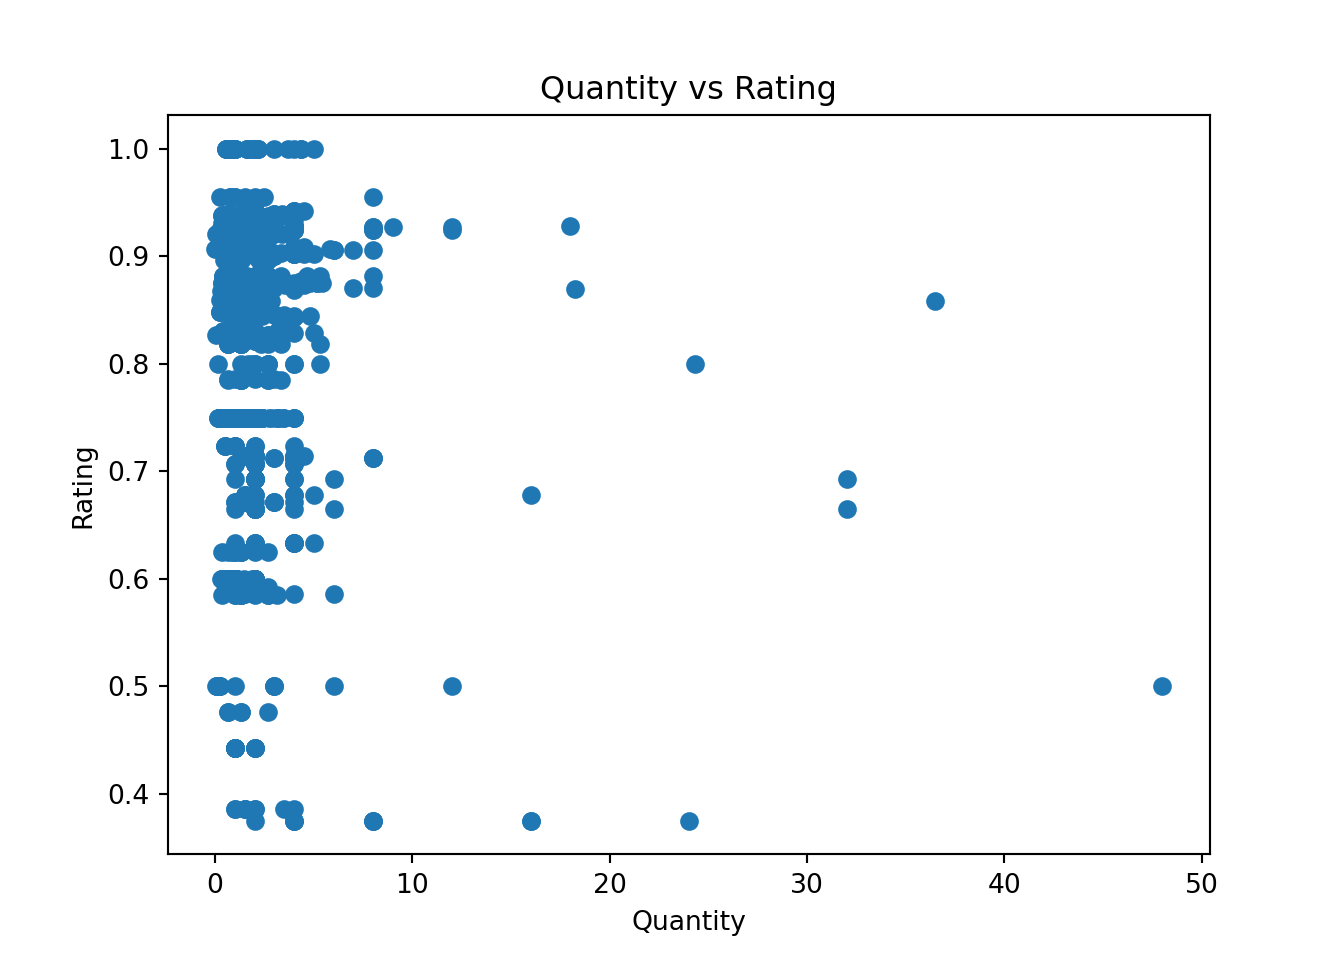
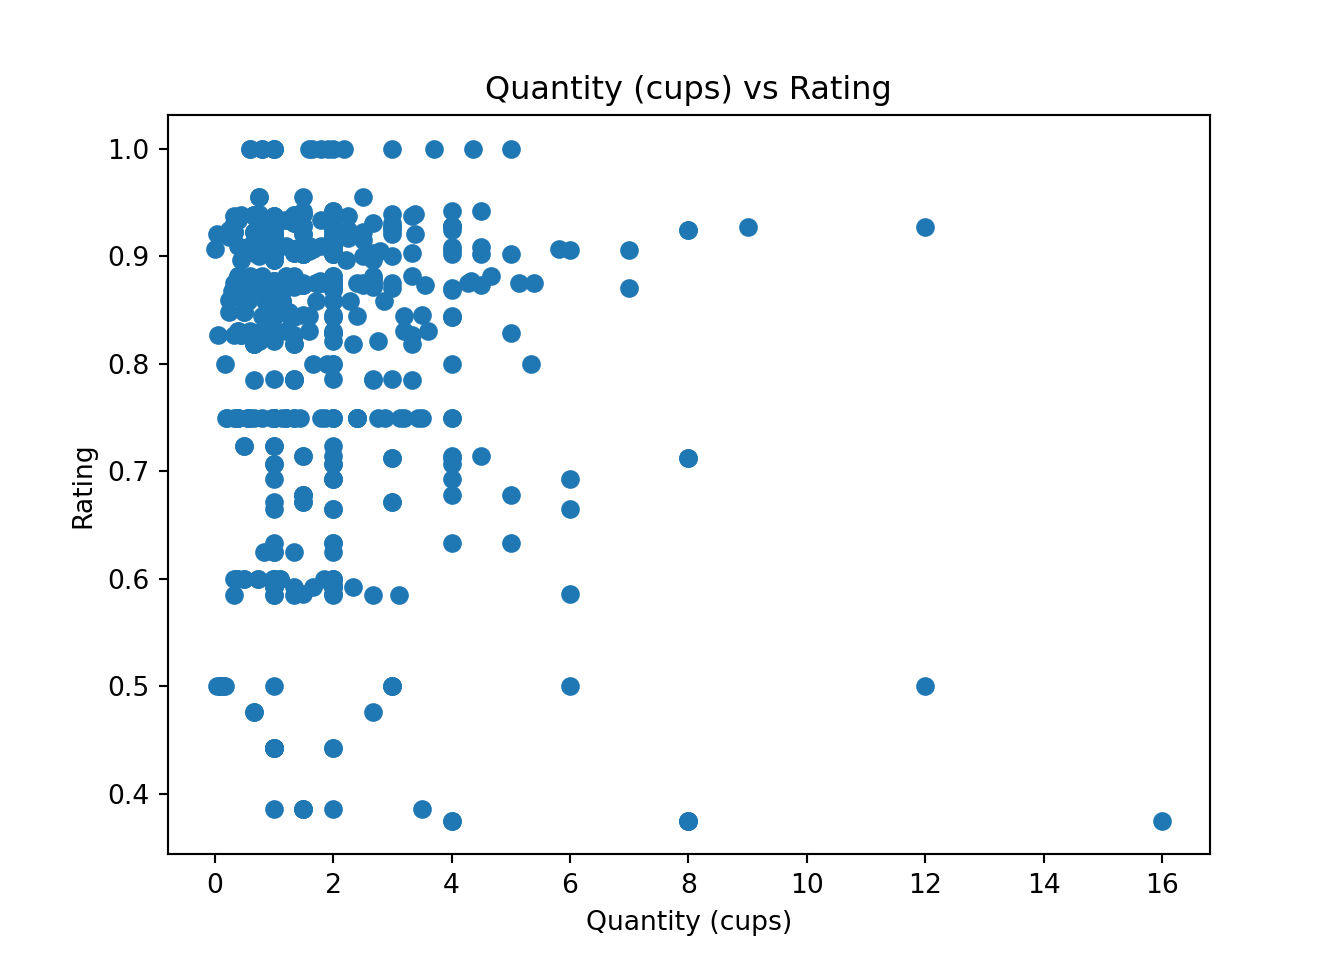
updating the missing ingredients and visualization

diff --git a/index.html b/index.html
@@ -381,10 +381,11 @@ pre > code.sourceCode > span > a:first-child::before { text-decoration: underlin
 <span id="cb10-6"><a href="#cb10-6" aria-hidden="true" tabindex="-1"></a>                                  <span class="at">proportion =</span> <span class="fu">n_distinct</span>(Recipe_Index)<span class="sc">/</span>total_recipes)</span>
 <span id="cb10-7"><a href="#cb10-7" aria-hidden="true" tabindex="-1"></a></span>
 <span id="cb10-8"><a href="#cb10-8" aria-hidden="true" tabindex="-1"></a>ingredients_counts <span class="ot">&lt;-</span> <span class="fu">arrange</span>(ingredients_counts, <span class="fu">desc</span>(proportion))</span>
-<span id="cb10-9"><a href="#cb10-9" aria-hidden="true" tabindex="-1"></a>common_20 <span class="ot">&lt;-</span> <span class="fu">head</span>(ingredients_counts, <span class="dv">20</span>)</span>
-<span id="cb10-10"><a href="#cb10-10" aria-hidden="true" tabindex="-1"></a><span class="fu">print</span>(common_20)</span></code></pre></div><button title="Copy to Clipboard" class="code-copy-button"><i class="bi"></i></button></div>
+<span id="cb10-9"><a href="#cb10-9" aria-hidden="true" tabindex="-1"></a>min_count <span class="ot">&lt;-</span> ingredients_counts<span class="sc">$</span>recipe_count[<span class="dv">20</span>]</span>
+<span id="cb10-10"><a href="#cb10-10" aria-hidden="true" tabindex="-1"></a>common_20 <span class="ot">&lt;-</span> <span class="fu">filter</span>(ingredients_counts, recipe_count <span class="sc">&gt;=</span> min_count)</span>
+<span id="cb10-11"><a href="#cb10-11" aria-hidden="true" tabindex="-1"></a><span class="fu">print</span>(common_20, <span class="at">n =</span> <span class="dv">22</span>)</span></code></pre></div><button title="Copy to Clipboard" class="code-copy-button"><i class="bi"></i></button></div>
 <div class="cell-output cell-output-stdout">
-<pre><code># A tibble: 20 × 3
+<pre><code># A tibble: 22 × 3
    Ingredient                 recipe_count proportion
    &lt;chr&gt;                             &lt;int&gt;      &lt;dbl&gt;
  1 egg                                 204     0.976 
@@ -406,7 +407,9 @@ pre > code.sourceCode > span > a:first-child::before { text-decoration: underlin
 17 milk                                 15     0.0718
 18 margarine                            11     0.0526
 19 pecan                                11     0.0526
-20 dark chocolate chip                   9     0.0431</code></pre>
+20 dark chocolate chip                   9     0.0431
+21 nuts                                  9     0.0431
+22 white chocolate chip                  9     0.0431</code></pre>
 </div>
 <div class="code-copy-outer-scaffold"><div class="sourceCode cell-code" id="cb12"><pre class="sourceCode r code-with-copy"><code class="sourceCode r"><span id="cb12-1"><a href="#cb12-1" aria-hidden="true" tabindex="-1"></a><span class="co">#Part 2</span></span>
 <span id="cb12-2"><a href="#cb12-2" aria-hidden="true" tabindex="-1"></a>rare_ingredients <span class="ot">&lt;-</span> <span class="fu">filter</span>(ingredients_counts, recipe_count <span class="sc">&lt;</span> <span class="dv">20</span>)</span>
@@ -423,8 +426,9 @@ pre > code.sourceCode > span > a:first-child::before { text-decoration: underlin
 <span id="cb14-5"><a href="#cb14-5" aria-hidden="true" tabindex="-1"></a>ingredient_counts.columns <span class="op">=</span> [<span class="st">"Ingredient"</span>, <span class="st">"recipe_count"</span>]</span>
 <span id="cb14-6"><a href="#cb14-6" aria-hidden="true" tabindex="-1"></a>ingredient_counts[<span class="st">"proportion"</span>] <span class="op">=</span> ingredient_counts[<span class="st">"recipe_count"</span>]<span class="op">/</span>total_recipes</span>
 <span id="cb14-7"><a href="#cb14-7" aria-hidden="true" tabindex="-1"></a>ingredient_counts <span class="op">=</span> ingredient_counts.sort_values(<span class="st">"proportion"</span>, ascending<span class="op">=</span><span class="va">False</span>)</span>
-<span id="cb14-8"><a href="#cb14-8" aria-hidden="true" tabindex="-1"></a>common_20 <span class="op">=</span> ingredient_counts.head(<span class="dv">20</span>)</span>
-<span id="cb14-9"><a href="#cb14-9" aria-hidden="true" tabindex="-1"></a><span class="bu">print</span>(common_20)</span></code></pre></div><button title="Copy to Clipboard" class="code-copy-button"><i class="bi"></i></button></div>
+<span id="cb14-8"><a href="#cb14-8" aria-hidden="true" tabindex="-1"></a>min_count <span class="op">=</span> ingredient_counts.iloc[<span class="dv">19</span>][<span class="st">"recipe_count"</span>]</span>
+<span id="cb14-9"><a href="#cb14-9" aria-hidden="true" tabindex="-1"></a>common_20 <span class="op">=</span> ingredient_counts[ingredient_counts[<span class="st">"recipe_count"</span>] <span class="op">&gt;=</span> min_count]</span>
+<span id="cb14-10"><a href="#cb14-10" aria-hidden="true" tabindex="-1"></a><span class="bu">print</span>(common_20)</span></code></pre></div><button title="Copy to Clipboard" class="code-copy-button"><i class="bi"></i></button></div>
 <div class="cell-output cell-output-stdout">
 <pre><code>                    Ingredient  recipe_count  proportion
 25                         egg           204    0.976077
@@ -446,7 +450,9 @@ pre > code.sourceCode > span > a:first-child::before { text-decoration: underlin
 38                        milk            15    0.071770
 36                   margarine            11    0.052632
 47                       pecan            11    0.052632
-43                        nuts             9    0.043062</code></pre>
+43                        nuts             9    0.043062
+24         dark chocolate chip             9    0.043062
+64        white chocolate chip             9    0.043062</code></pre>
 </div>
 <div class="code-copy-outer-scaffold"><div class="sourceCode cell-code" id="cb16"><pre class="sourceCode python code-with-copy"><code class="sourceCode python"><span id="cb16-1"><a href="#cb16-1" aria-hidden="true" tabindex="-1"></a><span class="co">#Part 2</span></span>
 <span id="cb16-2"><a href="#cb16-2" aria-hidden="true" tabindex="-1"></a>rare_ingredients <span class="op">=</span> ingredient_counts[ingredient_counts[<span class="st">"recipe_count"</span>] <span class="op">&lt;</span> <span class="dv">20</span>]</span>
@@ -463,12 +469,14 @@ pre > code.sourceCode > span > a:first-child::before { text-decoration: underlin
 <div class="cell">
 <div class="code-copy-outer-scaffold"><div class="sourceCode cell-code" id="cb18"><pre class="sourceCode python code-with-copy"><code class="sourceCode python"><span id="cb18-1"><a href="#cb18-1" aria-hidden="true" tabindex="-1"></a><span class="im">import</span> matplotlib.pyplot <span class="im">as</span> plt</span>
 <span id="cb18-2"><a href="#cb18-2" aria-hidden="true" tabindex="-1"></a></span>
-<span id="cb18-3"><a href="#cb18-3" aria-hidden="true" tabindex="-1"></a><span class="co">#Scatter plot of quantity vs rating</span></span>
-<span id="cb18-4"><a href="#cb18-4" aria-hidden="true" tabindex="-1"></a>plt.scatter(cookies[<span class="st">"Quantity"</span>], cookies[<span class="st">"Rating"</span>])</span>
-<span id="cb18-5"><a href="#cb18-5" aria-hidden="true" tabindex="-1"></a>plt.xlabel(<span class="st">"Quantity"</span>)</span>
-<span id="cb18-6"><a href="#cb18-6" aria-hidden="true" tabindex="-1"></a>plt.ylabel(<span class="st">"Rating"</span>)</span>
-<span id="cb18-7"><a href="#cb18-7" aria-hidden="true" tabindex="-1"></a>plt.title(<span class="st">"Quantity vs Rating"</span>)</span>
-<span id="cb18-8"><a href="#cb18-8" aria-hidden="true" tabindex="-1"></a>plt.show()</span></code></pre></div><button title="Copy to Clipboard" class="code-copy-button"><i class="bi"></i></button></div>
+<span id="cb18-3"><a href="#cb18-3" aria-hidden="true" tabindex="-1"></a>cups <span class="op">=</span> cookies[cookies[<span class="st">"Unit"</span>] <span class="op">==</span> <span class="st">"cup"</span>]</span>
+<span id="cb18-4"><a href="#cb18-4" aria-hidden="true" tabindex="-1"></a></span>
+<span id="cb18-5"><a href="#cb18-5" aria-hidden="true" tabindex="-1"></a><span class="co">#Scatter plot of quantity (cups) vs rating</span></span>
+<span id="cb18-6"><a href="#cb18-6" aria-hidden="true" tabindex="-1"></a>plt.scatter(cups[<span class="st">"Quantity"</span>], cups[<span class="st">"Rating"</span>])</span>
+<span id="cb18-7"><a href="#cb18-7" aria-hidden="true" tabindex="-1"></a>plt.xlabel(<span class="st">"Quantity (cups)"</span>)</span>
+<span id="cb18-8"><a href="#cb18-8" aria-hidden="true" tabindex="-1"></a>plt.ylabel(<span class="st">"Rating"</span>)</span>
+<span id="cb18-9"><a href="#cb18-9" aria-hidden="true" tabindex="-1"></a>plt.title(<span class="st">"Quantity (cups) vs Rating"</span>)</span>
+<span id="cb18-10"><a href="#cb18-10" aria-hidden="true" tabindex="-1"></a>plt.show()</span></code></pre></div><button title="Copy to Clipboard" class="code-copy-button"><i class="bi"></i></button></div>
 <div class="cell-output-display">
 <div>
 <figure class="figure">
@@ -478,21 +486,32 @@ pre > code.sourceCode > span > a:first-child::before { text-decoration: underlin
 </div>
 </div>
 <div class="cell">
-<div class="code-copy-outer-scaffold"><div class="sourceCode cell-code" id="cb19"><pre class="sourceCode python code-with-copy"><code class="sourceCode python"><span id="cb19-1"><a href="#cb19-1" aria-hidden="true" tabindex="-1"></a><span class="co">#Histogram of quantity distribution</span></span>
-<span id="cb19-2"><a href="#cb19-2" aria-hidden="true" tabindex="-1"></a>plt.hist(cookies[<span class="st">"Quantity"</span>])</span>
-<span id="cb19-3"><a href="#cb19-3" aria-hidden="true" tabindex="-1"></a>plt.xlabel(<span class="st">"Quantity"</span>)</span>
-<span id="cb19-4"><a href="#cb19-4" aria-hidden="true" tabindex="-1"></a>plt.ylabel(<span class="st">"Frequency"</span>)</span>
-<span id="cb19-5"><a href="#cb19-5" aria-hidden="true" tabindex="-1"></a>plt.title(<span class="st">"Distribution of Quantity"</span>)</span>
-<span id="cb19-6"><a href="#cb19-6" aria-hidden="true" tabindex="-1"></a>plt.show()</span></code></pre></div><button title="Copy to Clipboard" class="code-copy-button"><i class="bi"></i></button></div>
+<div class="code-copy-outer-scaffold"><div class="sourceCode cell-code" id="cb19"><pre class="sourceCode python code-with-copy"><code class="sourceCode python"><span id="cb19-1"><a href="#cb19-1" aria-hidden="true" tabindex="-1"></a>tsp <span class="op">=</span> cookies[cookies[<span class="st">"Unit"</span>] <span class="op">==</span> <span class="st">"teaspoon"</span>]</span>
+<span id="cb19-2"><a href="#cb19-2" aria-hidden="true" tabindex="-1"></a></span>
+<span id="cb19-3"><a href="#cb19-3" aria-hidden="true" tabindex="-1"></a><span class="co">#Histogram of quantity distribution for cups and teaspoons</span></span>
+<span id="cb19-4"><a href="#cb19-4" aria-hidden="true" tabindex="-1"></a>fig, (ax1, ax2) <span class="op">=</span> plt.subplots(<span class="dv">1</span>, <span class="dv">2</span>, figsize<span class="op">=</span>(<span class="dv">10</span>, <span class="dv">4</span>))</span>
+<span id="cb19-5"><a href="#cb19-5" aria-hidden="true" tabindex="-1"></a></span>
+<span id="cb19-6"><a href="#cb19-6" aria-hidden="true" tabindex="-1"></a>ax1.hist(cups[<span class="st">"Quantity"</span>])</span>
+<span id="cb19-7"><a href="#cb19-7" aria-hidden="true" tabindex="-1"></a>ax1.set_xlabel(<span class="st">"Quantity (cups)"</span>)</span>
+<span id="cb19-8"><a href="#cb19-8" aria-hidden="true" tabindex="-1"></a>ax1.set_ylabel(<span class="st">"Frequency"</span>)</span>
+<span id="cb19-9"><a href="#cb19-9" aria-hidden="true" tabindex="-1"></a>ax1.set_title(<span class="st">"Distribution of Quantity (cups)"</span>)</span>
+<span id="cb19-10"><a href="#cb19-10" aria-hidden="true" tabindex="-1"></a></span>
+<span id="cb19-11"><a href="#cb19-11" aria-hidden="true" tabindex="-1"></a>ax2.hist(tsp[<span class="st">"Quantity"</span>])</span>
+<span id="cb19-12"><a href="#cb19-12" aria-hidden="true" tabindex="-1"></a>ax2.set_xlabel(<span class="st">"Quantity (teaspoons)"</span>)</span>
+<span id="cb19-13"><a href="#cb19-13" aria-hidden="true" tabindex="-1"></a>ax2.set_ylabel(<span class="st">"Frequency"</span>)</span>
+<span id="cb19-14"><a href="#cb19-14" aria-hidden="true" tabindex="-1"></a>ax2.set_title(<span class="st">"Distribution of Quantity (teaspoons)"</span>)</span>
+<span id="cb19-15"><a href="#cb19-15" aria-hidden="true" tabindex="-1"></a></span>
+<span id="cb19-16"><a href="#cb19-16" aria-hidden="true" tabindex="-1"></a>plt.tight_layout()</span>
+<span id="cb19-17"><a href="#cb19-17" aria-hidden="true" tabindex="-1"></a>plt.show()</span></code></pre></div><button title="Copy to Clipboard" class="code-copy-button"><i class="bi"></i></button></div>
 <div class="cell-output-display">
 <div>
 <figure class="figure">
-<p><img src="index_files/figure-html/unnamed-chunk-8-3.png" class="img-fluid figure-img" width="672"></p>
+<p><img src="index_files/figure-html/unnamed-chunk-8-3.png" class="img-fluid figure-img" width="960"></p>
 </figure>
 </div>
 </div>
 </div>
-<p>[Part 2] Write 2-3 sentences about what you can learn from that plot and what directions you might want to investigate from here. The scatter plot shows that most ingredients are used in pretty small quantities (under 5 cups), and ratings are spread all over the place regardless of quantity, so there doesn’t seem to be much of a relationship between the two. The histogram backs this up, showing that the vast majority of quantities are clustered near zero with a few extreme outliers pushing up to 48 cups. It would be interesting to dig deeper into those outliers and see if specific ingredients at certain quantities tend to show up in higher-rated recipes</p>
+<p>[Part 2] Write 2-3 sentences about what you can learn from that plot and what directions you might want to investigate from here. The scatter plot of cup-measured ingredients vs rating shows no pattern, recipes with high and low ratings seem to use pretty similar amounts of ingredients, so quantity alone doesn’t seem to predict how well a recipe does. The side-by-side histograms show that both cups and teaspoons are heavily skewed to the right, meaning most ingredients are used in pretty small amounts with just a handful of outliers pushing way higher. It would be cool to dig into whether those outlier quantities belong to specific ingredients, and whether certain ingredients at specific amounts tend to show up in the highest-rated recipes</p>
 </section>
 </section>
 

diff --git a/pycode.py b/pycode.py
@@ -21,27 +21,40 @@ ingredient_counts = cookies.groupby("Ingredient")["Recipe_Index"].nunique().rese
 ingredient_counts.columns = ["Ingredient", "recipe_count"]
 ingredient_counts["proportion"] = ingredient_counts["recipe_count"]/total_recipes
 ingredient_counts = ingredient_counts.sort_values("proportion", ascending=False)
-common_20 = ingredient_counts.head(20)
+min_count = ingredient_counts.iloc[19]["recipe_count"]
+common_20 = ingredient_counts[ingredient_counts["recipe_count"] >= min_count]
 print(common_20)
 
 #part2
 rare_ingredients = ingredient_counts[ingredient_counts["recipe_count"] < 20]
 print(", ".join(rare_ingredients["Ingredient"]))
+print(ingredient_counts[ingredient_counts["recipe_count"] == 9])
 
 #visualization
-
-# scatter plot of Quantity vs Rating
 import matplotlib.pyplot as plt
-plt.scatter(cookies["Quantity"], cookies["Rating"])
-plt.xlabel("Quantity")
+
+cups = cookies[cookies["Unit"] == "cup"]
+tsp = cookies[cookies["Unit"] == "teaspoon"]
+
+# scatter plot of Quantity (cups) vs Rating
+plt.scatter(cups["Quantity"], cups["Rating"])
+plt.xlabel("Quantity (cups)")
 plt.ylabel("Rating")
-plt.title("Quantity vs Rating")
+plt.title("Quantity (cups) vs Rating")
 plt.show()
 
-#histogram of quantity
-plt.figure()
-plt.hist(cookies["Quantity"])
-plt.xlabel("Quantity")
-plt.ylabel("Frequency")
-plt.title("Distribution of Quantity")
+#histogram of quantity distribution for cups and teaspoons
+fig, (ax1, ax2) = plt.subplots(1, 2, figsize=(10, 4))
+
+ax1.hist(cups["Quantity"])
+ax1.set_xlabel("Quantity (cups)")
+ax1.set_ylabel("Frequency")
+ax1.set_title("Distribution of Quantity (cups)")
+
+ax2.hist(tsp["Quantity"])
+ax2.set_xlabel("Quantity (teaspoons)")
+ax2.set_ylabel("Frequency")
+ax2.set_title("Distribution of Quantity (teaspoons)")
+
+plt.tight_layout()
 plt.show()
